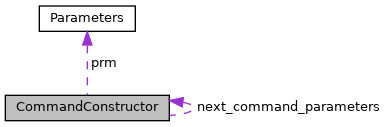
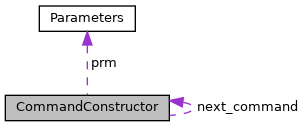
Deploying to gh-pages from @ dstroy0/InputHandler@6d2c29513930a54c01538d0f2f14abbc8ddefe4d 🚀

diff --git a/html/df/dec/_input_handler_8h_source.html b/html/df/dec/_input_handler_8h_source.html
@@ -164,7 +164,7 @@ $(document).ready(function(){initNavTree('df/dec/_input_handler_8h_source.html',
 <div class="line"><a id="l00111" name="l00111"></a><span class="lineno"><a class="line" href="../../d0/dbf/struct_parameters.html#a3397bfe84120d79b047bd5c83d2d5c53">  111</a></span>    <a class="code hl_enumeration" href="../../de/d8a/group___user_input.html#gaaf7aee82204b26b1dc80fcefa29ea8b9">UI_ARG_HANDLING</a> <a class="code hl_variable" href="../../d0/dbf/struct_parameters.html#a3397bfe84120d79b047bd5c83d2d5c53">argument_flag</a>; </div>
 <div class="line"><a id="l00112" name="l00112"></a><span class="lineno"><a class="line" href="../../d0/dbf/struct_parameters.html#a157e4e306872390657e1f7be5100c559">  112</a></span>    uint8_t <a class="code hl_variable" href="../../d0/dbf/struct_parameters.html#a157e4e306872390657e1f7be5100c559">num_args</a>;              </div>
 <div class="line"><a id="l00113" name="l00113"></a><span class="lineno"><a class="line" href="../../d0/dbf/struct_parameters.html#af2cc56591385d1eb4df0d93e9b1c7cb4">  113</a></span>    uint8_t <a class="code hl_variable" href="../../d0/dbf/struct_parameters.html#af2cc56591385d1eb4df0d93e9b1c7cb4">max_num_args</a>;          </div>
-<div class="line"><a id="l00114" name="l00114"></a><span class="lineno"><a class="line" href="../../d0/dbf/struct_parameters.html#a3170e977bf87d7fea93601067ed6d413">  114</a></span>    <a class="code hl_enumeration" href="../../de/d8a/group___user_input.html#ga70e7c464dbd2c5c26fa63684d9dfdd70">UITYPE</a> <a class="code hl_variable" href="../../d0/dbf/struct_parameters.html#a3170e977bf87d7fea93601067ed6d413">_arg_type</a>[<a class="code hl_define" href="../../dd/d4e/_input_handler__config_8h.html#a72f41b83365fd2261e5ddfacd27bb8a5">UI_MAX_ARGS</a>]; </div>
+<div class="line"><a id="l00114" name="l00114"></a><span class="lineno"><a class="line" href="../../d0/dbf/struct_parameters.html#a26ff294eb7d0d02ea1c224d10e3d44e2">  114</a></span>    <a class="code hl_enumeration" href="../../de/d8a/group___user_input.html#ga70e7c464dbd2c5c26fa63684d9dfdd70">UITYPE</a> <a class="code hl_variable" href="../../d0/dbf/struct_parameters.html#a26ff294eb7d0d02ea1c224d10e3d44e2">arg_type_arr</a>[<a class="code hl_define" href="../../dd/d4e/_input_handler__config_8h.html#a72f41b83365fd2261e5ddfacd27bb8a5">UI_MAX_ARGS</a>]; </div>
 <div class="line"><a id="l00115" name="l00115"></a><span class="lineno">  115</span>};</div>
 <div class="line"><a id="l00121" name="l00121"></a><span class="lineno"><a class="line" href="../../df/d68/class_command_constructor.html">  121</a></span><span class="keyword">class </span><a class="code hl_class" href="../../df/d68/class_command_constructor.html">CommandConstructor</a></div>
 <div class="line"><a id="l00122" name="l00122"></a><span class="lineno">  122</span>{</div>
@@ -175,13 +175,13 @@ $(document).ready(function(){initNavTree('df/dec/_input_handler_8h_source.html',
 <div class="line"><a id="l00140" name="l00140"></a><span class="lineno">  140</span>        : <a class="code hl_variable" href="../../df/d68/class_command_constructor.html#a36f5e0ca68674b1a7a6b28d0ac4df69a">prm</a>(parameters),</div>
 <div class="line"><a id="l00141" name="l00141"></a><span class="lineno">  141</span>          <a class="code hl_variable" href="../../df/d68/class_command_constructor.html#af3f46284fca20b49c41b1fad04977e7f">param_array_len</a>(parameter_array_elements),</div>
 <div class="line"><a id="l00142" name="l00142"></a><span class="lineno">  142</span>          <a class="code hl_variable" href="../../df/d68/class_command_constructor.html#a4723c2fc92a88cbe655c2d78fdc1ad79">tree_depth</a>(<a class="code hl_variable" href="../../df/d68/class_command_constructor.html#a4723c2fc92a88cbe655c2d78fdc1ad79">tree_depth</a>),</div>
-<div class="line"><a id="l00143" name="l00143"></a><span class="lineno">  143</span>          <a class="code hl_variable" href="../../df/d68/class_command_constructor.html#a317a2d10dedc039ae33d3c26c3a4e104">next_command_parameters</a>(NULL)</div>
+<div class="line"><a id="l00143" name="l00143"></a><span class="lineno">  143</span>          <a class="code hl_variable" href="../../df/d68/class_command_constructor.html#acf385c16d839794f2bbe7ad7d1db4de3">next_command</a>(NULL)</div>
 <div class="line"><a id="l00144" name="l00144"></a><span class="lineno">  144</span>    {</div>
 <div class="line"><a id="l00145" name="l00145"></a><span class="lineno">  145</span>    }</div>
 <div class="line"><a id="l00146" name="l00146"></a><span class="lineno"><a class="line" href="../../df/d68/class_command_constructor.html#a36f5e0ca68674b1a7a6b28d0ac4df69a">  146</a></span>    <span class="keyword">const</span> <a class="code hl_struct" href="../../d0/dbf/struct_parameters.html">Parameters</a> *<a class="code hl_variable" href="../../df/d68/class_command_constructor.html#a36f5e0ca68674b1a7a6b28d0ac4df69a">prm</a>;</div>
 <div class="line"><a id="l00147" name="l00147"></a><span class="lineno"><a class="line" href="../../df/d68/class_command_constructor.html#a4723c2fc92a88cbe655c2d78fdc1ad79">  147</a></span>    <span class="keyword">const</span> uint8_t <a class="code hl_variable" href="../../df/d68/class_command_constructor.html#a4723c2fc92a88cbe655c2d78fdc1ad79">tree_depth</a>;</div>
 <div class="line"><a id="l00148" name="l00148"></a><span class="lineno"><a class="line" href="../../df/d68/class_command_constructor.html#af3f46284fca20b49c41b1fad04977e7f">  148</a></span>    <span class="keyword">const</span> uint8_t <a class="code hl_variable" href="../../df/d68/class_command_constructor.html#af3f46284fca20b49c41b1fad04977e7f">param_array_len</a>;</div>
-<div class="line"><a id="l00149" name="l00149"></a><span class="lineno"><a class="line" href="../../df/d68/class_command_constructor.html#a317a2d10dedc039ae33d3c26c3a4e104">  149</a></span>    <a class="code hl_class" href="../../df/d68/class_command_constructor.html">CommandConstructor</a> *<a class="code hl_variable" href="../../df/d68/class_command_constructor.html#a317a2d10dedc039ae33d3c26c3a4e104">next_command_parameters</a>; </div>
+<div class="line"><a id="l00149" name="l00149"></a><span class="lineno"><a class="line" href="../../df/d68/class_command_constructor.html#acf385c16d839794f2bbe7ad7d1db4de3">  149</a></span>    <a class="code hl_class" href="../../df/d68/class_command_constructor.html">CommandConstructor</a> *<a class="code hl_variable" href="../../df/d68/class_command_constructor.html#acf385c16d839794f2bbe7ad7d1db4de3">next_command</a>; </div>
 <div class="line"><a id="l00150" name="l00150"></a><span class="lineno">  150</span>};</div>
 <div class="line"><a id="l00151" name="l00151"></a><span class="lineno">  151</span> </div>
 <div class="line"><a id="l00155" name="l00155"></a><span class="lineno"><a class="line" href="../../dc/d4b/class_user_input.html">  155</a></span><span class="keyword">class </span><a class="code hl_class" href="../../dc/d4b/class_user_input.html">UserInput</a></div>
@@ -346,9 +346,9 @@ $(document).ready(function(){initNavTree('df/dec/_input_handler_8h_source.html',
 <div class="ttc" id="aarduino_2advanced_2_multi_file_2_c_l_i_2parameters_8h_html_ab5cff1c93016bad1a024d62bc0c60784"><div class="ttname"><a href="../../d3/d4e/arduino_2advanced_2_multi_file_2_c_l_i_2parameters_8h.html#ab5cff1c93016bad1a024d62bc0c60784">PROGMEM</a></div><div class="ttdeci">const Parameters help_param[1] PROGMEM</div><div class="ttdoc">UserInput::Parameters struct for uc_help_.</div><div class="ttdef"><b>Definition:</b> parameters.h:20</div></div>
 <div class="ttc" id="aclass_command_constructor_html"><div class="ttname"><a href="../../df/d68/class_command_constructor.html">CommandConstructor</a></div><div class="ttdoc">user command constructor class</div><div class="ttdef"><b>Definition:</b> InputHandler.h:122</div></div>
 <div class="ttc" id="aclass_command_constructor_html_a25e808c319d8240889311fbcb81e5b33"><div class="ttname"><a href="../../df/d68/class_command_constructor.html#a25e808c319d8240889311fbcb81e5b33">CommandConstructor::CommandConstructor</a></div><div class="ttdeci">CommandConstructor(const Parameters *parameters, const uint8_t parameter_array_elements=1, const uint8_t tree_depth=0)</div><div class="ttdoc">CommandConstructor Constructor.</div><div class="ttdef"><b>Definition:</b> InputHandler.h:137</div></div>
-<div class="ttc" id="aclass_command_constructor_html_a317a2d10dedc039ae33d3c26c3a4e104"><div class="ttname"><a href="../../df/d68/class_command_constructor.html#a317a2d10dedc039ae33d3c26c3a4e104">CommandConstructor::next_command_parameters</a></div><div class="ttdeci">CommandConstructor * next_command_parameters</div><div class="ttdef"><b>Definition:</b> InputHandler.h:149</div></div>
 <div class="ttc" id="aclass_command_constructor_html_a36f5e0ca68674b1a7a6b28d0ac4df69a"><div class="ttname"><a href="../../df/d68/class_command_constructor.html#a36f5e0ca68674b1a7a6b28d0ac4df69a">CommandConstructor::prm</a></div><div class="ttdeci">const Parameters * prm</div><div class="ttdef"><b>Definition:</b> InputHandler.h:146</div></div>
 <div class="ttc" id="aclass_command_constructor_html_a4723c2fc92a88cbe655c2d78fdc1ad79"><div class="ttname"><a href="../../df/d68/class_command_constructor.html#a4723c2fc92a88cbe655c2d78fdc1ad79">CommandConstructor::tree_depth</a></div><div class="ttdeci">const uint8_t tree_depth</div><div class="ttdef"><b>Definition:</b> InputHandler.h:147</div></div>
+<div class="ttc" id="aclass_command_constructor_html_acf385c16d839794f2bbe7ad7d1db4de3"><div class="ttname"><a href="../../df/d68/class_command_constructor.html#acf385c16d839794f2bbe7ad7d1db4de3">CommandConstructor::next_command</a></div><div class="ttdeci">CommandConstructor * next_command</div><div class="ttdef"><b>Definition:</b> InputHandler.h:149</div></div>
 <div class="ttc" id="aclass_command_constructor_html_af3f46284fca20b49c41b1fad04977e7f"><div class="ttname"><a href="../../df/d68/class_command_constructor.html#af3f46284fca20b49c41b1fad04977e7f">CommandConstructor::param_array_len</a></div><div class="ttdeci">const uint8_t param_array_len</div><div class="ttdef"><b>Definition:</b> InputHandler.h:148</div></div>
 <div class="ttc" id="aclass_user_input_html"><div class="ttname"><a href="../../dc/d4b/class_user_input.html">UserInput</a></div><div class="ttdoc">User input handler methods.</div><div class="ttdef"><b>Definition:</b> InputHandler.h:156</div></div>
 <div class="ttc" id="aclass_user_input_html_a1f1dfef01fd160e4ba9686a4c59e0369"><div class="ttname"><a href="../../dc/d4b/class_user_input.html#a1f1dfef01fd160e4ba9686a4c59e0369">UserInput::begin</a></div><div class="ttdeci">bool begin()</div><div class="ttdoc">allocates memory for data_pointers, sets begin</div><div class="ttdef"><b>Definition:</b> InputHandler.cpp:118</div></div>
@@ -388,7 +388,7 @@ $(document).ready(function(){initNavTree('df/dec/_input_handler_8h_source.html',
 <div class="ttc" id="astruct_parameters_html"><div class="ttname"><a href="../../d0/dbf/struct_parameters.html">Parameters</a></div><div class="ttdoc">Parameters struct, this is the container that holds your command parameters.</div><div class="ttdef"><b>Definition:</b> InputHandler.h:105</div></div>
 <div class="ttc" id="astruct_parameters_html_a010c4c82c6956cb129b423ef20b8f279"><div class="ttname"><a href="../../d0/dbf/struct_parameters.html#a010c4c82c6956cb129b423ef20b8f279">Parameters::depth</a></div><div class="ttdeci">uint8_t depth</div><div class="ttdoc">command tree depth</div><div class="ttdef"><b>Definition:</b> InputHandler.h:109</div></div>
 <div class="ttc" id="astruct_parameters_html_a157e4e306872390657e1f7be5100c559"><div class="ttname"><a href="../../d0/dbf/struct_parameters.html#a157e4e306872390657e1f7be5100c559">Parameters::num_args</a></div><div class="ttdeci">uint8_t num_args</div><div class="ttdoc">minimum number of arguments this command expects</div><div class="ttdef"><b>Definition:</b> InputHandler.h:112</div></div>
-<div class="ttc" id="astruct_parameters_html_a3170e977bf87d7fea93601067ed6d413"><div class="ttname"><a href="../../d0/dbf/struct_parameters.html#a3170e977bf87d7fea93601067ed6d413">Parameters::_arg_type</a></div><div class="ttdeci">UITYPE _arg_type[UI_MAX_ARGS]</div><div class="ttdoc">argument type array</div><div class="ttdef"><b>Definition:</b> InputHandler.h:114</div></div>
+<div class="ttc" id="astruct_parameters_html_a26ff294eb7d0d02ea1c224d10e3d44e2"><div class="ttname"><a href="../../d0/dbf/struct_parameters.html#a26ff294eb7d0d02ea1c224d10e3d44e2">Parameters::arg_type_arr</a></div><div class="ttdeci">UITYPE arg_type_arr[UI_MAX_ARGS]</div><div class="ttdoc">argument type array</div><div class="ttdef"><b>Definition:</b> InputHandler.h:114</div></div>
 <div class="ttc" id="astruct_parameters_html_a3397bfe84120d79b047bd5c83d2d5c53"><div class="ttname"><a href="../../d0/dbf/struct_parameters.html#a3397bfe84120d79b047bd5c83d2d5c53">Parameters::argument_flag</a></div><div class="ttdeci">UI_ARG_HANDLING argument_flag</div><div class="ttdoc">argument handling flag</div><div class="ttdef"><b>Definition:</b> InputHandler.h:111</div></div>
 <div class="ttc" id="astruct_parameters_html_a50cf8f9bc0161410c3a486a54e99108e"><div class="ttname"><a href="../../d0/dbf/struct_parameters.html#a50cf8f9bc0161410c3a486a54e99108e">Parameters::sub_commands</a></div><div class="ttdeci">uint8_t sub_commands</div><div class="ttdoc">how many subcommands does this command have</div><div class="ttdef"><b>Definition:</b> InputHandler.h:110</div></div>
 <div class="ttc" id="astruct_parameters_html_aa5cdae10169c1ffea5ca38b74043220b"><div class="ttname"><a href="../../d0/dbf/struct_parameters.html#aa5cdae10169c1ffea5ca38b74043220b">Parameters::command_length</a></div><div class="ttdeci">uint16_t command_length</div><div class="ttdoc">command length in characters</div><div class="ttdef"><b>Definition:</b> InputHandler.h:108</div></div>

diff --git a/html/d0/dbf/struct_parameters.html b/html/d0/dbf/struct_parameters.html
@@ -123,22 +123,22 @@ Public Attributes</h2></td></tr>
 <tr class="memitem:af2cc56591385d1eb4df0d93e9b1c7cb4"><td class="memItemLeft" align="right" valign="top">uint8_t&#160;</td><td class="memItemRight" valign="bottom"><a class="el" href="../../d0/dbf/struct_parameters.html#af2cc56591385d1eb4df0d93e9b1c7cb4">max_num_args</a></td></tr>
 <tr class="memdesc:af2cc56591385d1eb4df0d93e9b1c7cb4"><td class="mdescLeft">&#160;</td><td class="mdescRight">maximum number of arguments this command expects  <a href="../../d0/dbf/struct_parameters.html#af2cc56591385d1eb4df0d93e9b1c7cb4">More...</a><br /></td></tr>
 <tr class="separator:af2cc56591385d1eb4df0d93e9b1c7cb4"><td class="memSeparator" colspan="2">&#160;</td></tr>
-<tr class="memitem:a3170e977bf87d7fea93601067ed6d413"><td class="memItemLeft" align="right" valign="top"><a class="el" href="../../de/d8a/group___user_input.html#ga70e7c464dbd2c5c26fa63684d9dfdd70">UITYPE</a>&#160;</td><td class="memItemRight" valign="bottom"><a class="el" href="../../d0/dbf/struct_parameters.html#a3170e977bf87d7fea93601067ed6d413">_arg_type</a> [<a class="el" href="../../dd/d4e/_input_handler__config_8h.html#a72f41b83365fd2261e5ddfacd27bb8a5">UI_MAX_ARGS</a>]</td></tr>
-<tr class="memdesc:a3170e977bf87d7fea93601067ed6d413"><td class="mdescLeft">&#160;</td><td class="mdescRight">argument type array  <a href="../../d0/dbf/struct_parameters.html#a3170e977bf87d7fea93601067ed6d413">More...</a><br /></td></tr>
-<tr class="separator:a3170e977bf87d7fea93601067ed6d413"><td class="memSeparator" colspan="2">&#160;</td></tr>
+<tr class="memitem:a26ff294eb7d0d02ea1c224d10e3d44e2"><td class="memItemLeft" align="right" valign="top"><a class="el" href="../../de/d8a/group___user_input.html#ga70e7c464dbd2c5c26fa63684d9dfdd70">UITYPE</a>&#160;</td><td class="memItemRight" valign="bottom"><a class="el" href="../../d0/dbf/struct_parameters.html#a26ff294eb7d0d02ea1c224d10e3d44e2">arg_type_arr</a> [<a class="el" href="../../dd/d4e/_input_handler__config_8h.html#a72f41b83365fd2261e5ddfacd27bb8a5">UI_MAX_ARGS</a>]</td></tr>
+<tr class="memdesc:a26ff294eb7d0d02ea1c224d10e3d44e2"><td class="mdescLeft">&#160;</td><td class="mdescRight">argument type array  <a href="../../d0/dbf/struct_parameters.html#a26ff294eb7d0d02ea1c224d10e3d44e2">More...</a><br /></td></tr>
+<tr class="separator:a26ff294eb7d0d02ea1c224d10e3d44e2"><td class="memSeparator" colspan="2">&#160;</td></tr>
 </table>
 <a name="details" id="details"></a><h2 class="groupheader">Detailed Description</h2>
 <div class="textblock"><p ><a class="el" href="../../d0/dbf/struct_parameters.html" title="Parameters struct, this is the container that holds your command parameters.">Parameters</a> struct, this is the container that holds your command parameters. </p>
 <p >User Command <a class="el" href="../../d0/dbf/struct_parameters.html" title="Parameters struct, this is the container that holds your command parameters.">Parameters</a> struct </p>
 </div><h2 class="groupheader">Member Data Documentation</h2>
-<a id="a3170e977bf87d7fea93601067ed6d413" name="a3170e977bf87d7fea93601067ed6d413"></a>
-<h2 class="memtitle"><span class="permalink"><a href="#a3170e977bf87d7fea93601067ed6d413">&#9670;&nbsp;</a></span>_arg_type</h2>
+<a id="a26ff294eb7d0d02ea1c224d10e3d44e2" name="a26ff294eb7d0d02ea1c224d10e3d44e2"></a>
+<h2 class="memtitle"><span class="permalink"><a href="#a26ff294eb7d0d02ea1c224d10e3d44e2">&#9670;&nbsp;</a></span>arg_type_arr</h2>
 
 <div class="memitem">
 <div class="memproto">
       <table class="memname">
         <tr>
-          <td class="memname"><a class="el" href="../../de/d8a/group___user_input.html#ga70e7c464dbd2c5c26fa63684d9dfdd70">UITYPE</a> Parameters::_arg_type[<a class="el" href="../../dd/d4e/_input_handler__config_8h.html#a72f41b83365fd2261e5ddfacd27bb8a5">UI_MAX_ARGS</a>]</td>
+          <td class="memname"><a class="el" href="../../de/d8a/group___user_input.html#ga70e7c464dbd2c5c26fa63684d9dfdd70">UITYPE</a> Parameters::arg_type_arr[<a class="el" href="../../dd/d4e/_input_handler__config_8h.html#a72f41b83365fd2261e5ddfacd27bb8a5">UI_MAX_ARGS</a>]</td>
         </tr>
       </table>
 </div><div class="memdoc">

diff --git a/html/df/d68/class_command_constructor.html b/html/df/d68/class_command_constructor.html
@@ -121,8 +121,8 @@ Public Attributes</h2></td></tr>
 <tr class="separator:a4723c2fc92a88cbe655c2d78fdc1ad79"><td class="memSeparator" colspan="2">&#160;</td></tr>
 <tr class="memitem:af3f46284fca20b49c41b1fad04977e7f"><td class="memItemLeft" align="right" valign="top">const uint8_t&#160;</td><td class="memItemRight" valign="bottom"><a class="el" href="../../df/d68/class_command_constructor.html#af3f46284fca20b49c41b1fad04977e7f">param_array_len</a></td></tr>
 <tr class="separator:af3f46284fca20b49c41b1fad04977e7f"><td class="memSeparator" colspan="2">&#160;</td></tr>
-<tr class="memitem:a317a2d10dedc039ae33d3c26c3a4e104"><td class="memItemLeft" align="right" valign="top"><a class="el" href="../../df/d68/class_command_constructor.html">CommandConstructor</a> *&#160;</td><td class="memItemRight" valign="bottom"><a class="el" href="../../df/d68/class_command_constructor.html#a317a2d10dedc039ae33d3c26c3a4e104">next_command_parameters</a></td></tr>
-<tr class="separator:a317a2d10dedc039ae33d3c26c3a4e104"><td class="memSeparator" colspan="2">&#160;</td></tr>
+<tr class="memitem:acf385c16d839794f2bbe7ad7d1db4de3"><td class="memItemLeft" align="right" valign="top"><a class="el" href="../../df/d68/class_command_constructor.html">CommandConstructor</a> *&#160;</td><td class="memItemRight" valign="bottom"><a class="el" href="../../df/d68/class_command_constructor.html#acf385c16d839794f2bbe7ad7d1db4de3">next_command</a></td></tr>
+<tr class="separator:acf385c16d839794f2bbe7ad7d1db4de3"><td class="memSeparator" colspan="2">&#160;</td></tr>
 </table>
 <a name="details" id="details"></a><h2 class="groupheader">Detailed Description</h2>
 <div class="textblock"><p >user command constructor class </p>
@@ -169,7 +169,7 @@ Public Attributes</h2></td></tr>
 
 <p><a class="el" href="../../df/d68/class_command_constructor.html" title="user command constructor class">CommandConstructor</a> Constructor. </p>
 <p ><a href="https://www.programiz.com/dsa/linked-list">https://www.programiz.com/dsa/linked-list</a></p>
-<p >These are chained together as a linked-list; this object contains a reference <code>next_command_parameters</code> to the next node in the <a class="el" href="../../df/d68/class_command_constructor.html" title="user command constructor class">CommandConstructor</a> linked-list.</p>
+<p >These are chained together as a linked-list; this object contains a reference <code>next_command</code> to the next node in the <a class="el" href="../../df/d68/class_command_constructor.html" title="user command constructor class">CommandConstructor</a> linked-list.</p>
 <p >Before using, construct a <a class="el" href="../../dc/d4b/class_user_input.html" title="User input handler methods.">UserInput</a> object and a <a class="el" href="../../d0/dbf/struct_parameters.html" title="Parameters struct, this is the container that holds your command parameters.">Parameters</a> object. </p><dl class="params"><dt>Parameters</dt><dd>
   <table class="params">
     <tr><td class="paramname">parameters</td><td>pointer to parameters struct or array of parameters structs </td></tr>
@@ -182,14 +182,14 @@ Public Attributes</h2></td></tr>
 </div>
 </div>
 <h2 class="groupheader">Member Data Documentation</h2>
-<a id="a317a2d10dedc039ae33d3c26c3a4e104" name="a317a2d10dedc039ae33d3c26c3a4e104"></a>
-<h2 class="memtitle"><span class="permalink"><a href="#a317a2d10dedc039ae33d3c26c3a4e104">&#9670;&nbsp;</a></span>next_command_parameters</h2>
+<a id="acf385c16d839794f2bbe7ad7d1db4de3" name="acf385c16d839794f2bbe7ad7d1db4de3"></a>
+<h2 class="memtitle"><span class="permalink"><a href="#acf385c16d839794f2bbe7ad7d1db4de3">&#9670;&nbsp;</a></span>next_command</h2>
 
 <div class="memitem">
 <div class="memproto">
       <table class="memname">
         <tr>
-          <td class="memname"><a class="el" href="../../df/d68/class_command_constructor.html">CommandConstructor</a>* CommandConstructor::next_command_parameters</td>
+          <td class="memname"><a class="el" href="../../df/d68/class_command_constructor.html">CommandConstructor</a>* CommandConstructor::next_command</td>
         </tr>
       </table>
 </div><div class="memdoc">

diff --git a/html/search/all_0.js b/html/search/all_0.js
@@ -1,14 +1,13 @@
 var searchData=
 [
   ['_5f_5fvalist_0',['__VALIST',['../dd/ddc/vsnprintf_8h.html#a3335625716061d1943df22e780d2a055',1,'vsnprintf.h']]],
-  ['_5farg_5ftype_1',['_arg_type',['../d0/dbf/struct_parameters.html#a3170e977bf87d7fea93601067ed6d413',1,'Parameters']]],
-  ['_5fgenerate_2',['_generate',['../dd/db2/structdetail_1_1__generate.html',1,'detail']]],
-  ['_5fgenerate_3c_20t_2c_200_20_3e_3',['_generate&lt; T, 0 &gt;',['../d5/d4b/structdetail_1_1__generate_3_01_t_00_010_01_4.html',1,'detail']]],
-  ['_5fgenerate_3c_20t_2c_201_20_3e_4',['_generate&lt; T, 1 &gt;',['../d6/de6/structdetail_1_1__generate_3_01_t_00_011_01_4.html',1,'detail']]],
-  ['_5fgenerate_5ft_5',['_generate_t',['../dd/d39/namespacedetail.html#a7b8b2dabbdc5bfe0ab98241848a44185',1,'detail']]],
-  ['_5flast_6',['_LAST',['../de/d8a/group___user_input.html#gga70e7c464dbd2c5c26fa63684d9dfdd70aaa55687588914f1c2a506982d7f57948',1,'InputHandler.h']]],
-  ['_5fmerge_7',['_merge',['../d1/df1/structdetail_1_1__merge.html',1,'detail']]],
-  ['_5fmerge_3c_20integer_5fsequence_3c_20t_2c_20i1_2e_2e_2e_20_3e_2c_20integer_5fsequence_3c_20t_2c_20i2_2e_2e_2e_20_3e_20_3e_8',['_merge&lt; integer_sequence&lt; T, I1... &gt;, integer_sequence&lt; T, I2... &gt; &gt;',['../d2/d14/structdetail_1_1__merge_3_01integer__sequence_3_01_t_00_01_i1_8_8_8_01_4_00_01integer__sequence_3_01_t_00_01_i2_8_8_8_01_4_01_4.html',1,'detail']]],
-  ['_5fmerge_5ft_9',['_merge_t',['../dd/d39/namespacedetail.html#a90c3c123fd3feb59de78303f0b2585d9',1,'detail']]],
-  ['_5fn_5fprms_10',['_N_prms',['../dd/d4e/_input_handler__config_8h.html#acedaeea0ea767f43653abdf77453de79',1,'InputHandler_config.h']]]
+  ['_5fgenerate_1',['_generate',['../dd/db2/structdetail_1_1__generate.html',1,'detail']]],
+  ['_5fgenerate_3c_20t_2c_200_20_3e_2',['_generate&lt; T, 0 &gt;',['../d5/d4b/structdetail_1_1__generate_3_01_t_00_010_01_4.html',1,'detail']]],
+  ['_5fgenerate_3c_20t_2c_201_20_3e_3',['_generate&lt; T, 1 &gt;',['../d6/de6/structdetail_1_1__generate_3_01_t_00_011_01_4.html',1,'detail']]],
+  ['_5fgenerate_5ft_4',['_generate_t',['../dd/d39/namespacedetail.html#a7b8b2dabbdc5bfe0ab98241848a44185',1,'detail']]],
+  ['_5flast_5',['_LAST',['../de/d8a/group___user_input.html#gga70e7c464dbd2c5c26fa63684d9dfdd70aaa55687588914f1c2a506982d7f57948',1,'InputHandler.h']]],
+  ['_5fmerge_6',['_merge',['../d1/df1/structdetail_1_1__merge.html',1,'detail']]],
+  ['_5fmerge_3c_20integer_5fsequence_3c_20t_2c_20i1_2e_2e_2e_20_3e_2c_20integer_5fsequence_3c_20t_2c_20i2_2e_2e_2e_20_3e_20_3e_7',['_merge&lt; integer_sequence&lt; T, I1... &gt;, integer_sequence&lt; T, I2... &gt; &gt;',['../d2/d14/structdetail_1_1__merge_3_01integer__sequence_3_01_t_00_01_i1_8_8_8_01_4_00_01integer__sequence_3_01_t_00_01_i2_8_8_8_01_4_01_4.html',1,'detail']]],
+  ['_5fmerge_5ft_8',['_merge_t',['../dd/d39/namespacedetail.html#a90c3c123fd3feb59de78303f0b2585d9',1,'detail']]],
+  ['_5fn_5fprms_9',['_N_prms',['../dd/d4e/_input_handler__config_8h.html#acedaeea0ea767f43653abdf77453de79',1,'InputHandler_config.h']]]
 ];

diff --git a/html/df/d97/class_command_constructor-members.html b/html/df/d97/class_command_constructor-members.html
@@ -92,7 +92,7 @@ $(document).ready(function(){initNavTree('df/d68/class_command_constructor.html'
 <p>This is the complete list of members for <a class="el" href="../../df/d68/class_command_constructor.html">CommandConstructor</a>, including all inherited members.</p>
 <table class="directory">
   <tr class="even"><td class="entry"><a class="el" href="../../df/d68/class_command_constructor.html#a25e808c319d8240889311fbcb81e5b33">CommandConstructor</a>(const Parameters *parameters, const uint8_t parameter_array_elements=1, const uint8_t tree_depth=0)</td><td class="entry"><a class="el" href="../../df/d68/class_command_constructor.html">CommandConstructor</a></td><td class="entry"><span class="mlabel">inline</span></td></tr>
-  <tr class="odd"><td class="entry"><a class="el" href="../../df/d68/class_command_constructor.html#a317a2d10dedc039ae33d3c26c3a4e104">next_command_parameters</a></td><td class="entry"><a class="el" href="../../df/d68/class_command_constructor.html">CommandConstructor</a></td><td class="entry"></td></tr>
+  <tr class="odd"><td class="entry"><a class="el" href="../../df/d68/class_command_constructor.html#acf385c16d839794f2bbe7ad7d1db4de3">next_command</a></td><td class="entry"><a class="el" href="../../df/d68/class_command_constructor.html">CommandConstructor</a></td><td class="entry"></td></tr>
   <tr class="even"><td class="entry"><a class="el" href="../../df/d68/class_command_constructor.html#af3f46284fca20b49c41b1fad04977e7f">param_array_len</a></td><td class="entry"><a class="el" href="../../df/d68/class_command_constructor.html">CommandConstructor</a></td><td class="entry"></td></tr>
   <tr class="odd"><td class="entry"><a class="el" href="../../df/d68/class_command_constructor.html#a36f5e0ca68674b1a7a6b28d0ac4df69a">prm</a></td><td class="entry"><a class="el" href="../../df/d68/class_command_constructor.html">CommandConstructor</a></td><td class="entry"></td></tr>
   <tr class="even"><td class="entry"><a class="el" href="../../df/d68/class_command_constructor.html#a4723c2fc92a88cbe655c2d78fdc1ad79">tree_depth</a></td><td class="entry"><a class="el" href="../../df/d68/class_command_constructor.html">CommandConstructor</a></td><td class="entry"></td></tr>

diff --git a/html/functions_vars.html b/html/functions_vars.html
@@ -86,14 +86,14 @@ $(document).ready(function(){initNavTree('functions_vars.html',''); initResizabl
 
 <div class="contents">
 &#160;<ul>
-<li>_arg_type&#160;:&#160;<a class="el" href="d0/dbf/struct_parameters.html#a3170e977bf87d7fea93601067ed6d413">Parameters</a></li>
+<li>arg_type_arr&#160;:&#160;<a class="el" href="d0/dbf/struct_parameters.html#a26ff294eb7d0d02ea1c224d10e3d44e2">Parameters</a></li>
 <li>argument_flag&#160;:&#160;<a class="el" href="d0/dbf/struct_parameters.html#a3397bfe84120d79b047bd5c83d2d5c53">Parameters</a></li>
 <li>command&#160;:&#160;<a class="el" href="d0/dbf/struct_parameters.html#ad7bcf9456a39e6b541ab2e3039391acf">Parameters</a></li>
 <li>command_length&#160;:&#160;<a class="el" href="d0/dbf/struct_parameters.html#aa5cdae10169c1ffea5ca38b74043220b">Parameters</a></li>
 <li>depth&#160;:&#160;<a class="el" href="d0/dbf/struct_parameters.html#a010c4c82c6956cb129b423ef20b8f279">Parameters</a></li>
 <li>function&#160;:&#160;<a class="el" href="d0/dbf/struct_parameters.html#abb290cdb27d954c02656940d91bab100">Parameters</a></li>
 <li>max_num_args&#160;:&#160;<a class="el" href="d0/dbf/struct_parameters.html#af2cc56591385d1eb4df0d93e9b1c7cb4">Parameters</a></li>
-<li>next_command_parameters&#160;:&#160;<a class="el" href="df/d68/class_command_constructor.html#a317a2d10dedc039ae33d3c26c3a4e104">CommandConstructor</a></li>
+<li>next_command&#160;:&#160;<a class="el" href="df/d68/class_command_constructor.html#acf385c16d839794f2bbe7ad7d1db4de3">CommandConstructor</a></li>
 <li>num_args&#160;:&#160;<a class="el" href="d0/dbf/struct_parameters.html#a157e4e306872390657e1f7be5100c559">Parameters</a></li>
 <li>param_array_len&#160;:&#160;<a class="el" href="df/d68/class_command_constructor.html#af3f46284fca20b49c41b1fad04977e7f">CommandConstructor</a></li>
 <li>prm&#160;:&#160;<a class="el" href="df/d68/class_command_constructor.html#a36f5e0ca68674b1a7a6b28d0ac4df69a">CommandConstructor</a></li>

diff --git a/html/functions.html b/html/functions.html
@@ -87,13 +87,9 @@ $(document).ready(function(){initNavTree('functions.html',''); initResizable(); 
 <div class="contents">
 <div class="textblock">Here is a list of all class members with links to the classes they belong to:</div>
 
-<h3><a id="index__5F" name="index__5F"></a>- _ -</h3><ul>
-<li>_arg_type&#160;:&#160;<a class="el" href="d0/dbf/struct_parameters.html#a3170e977bf87d7fea93601067ed6d413">Parameters</a></li>
-</ul>
-
-
 <h3><a id="index_a" name="index_a"></a>- a -</h3><ul>
 <li>addCommand()&#160;:&#160;<a class="el" href="dc/d4b/class_user_input.html#aa6067a65dc10a5c4546ce789a3edd4d1">UserInput</a></li>
+<li>arg_type_arr&#160;:&#160;<a class="el" href="d0/dbf/struct_parameters.html#a26ff294eb7d0d02ea1c224d10e3d44e2">Parameters</a></li>
 <li>argument_flag&#160;:&#160;<a class="el" href="d0/dbf/struct_parameters.html#a3397bfe84120d79b047bd5c83d2d5c53">Parameters</a></li>
 </ul>
 
@@ -142,7 +138,7 @@ $(document).ready(function(){initNavTree('functions.html',''); initResizable(); 
 
 
 <h3><a id="index_n" name="index_n"></a>- n -</h3><ul>
-<li>next_command_parameters&#160;:&#160;<a class="el" href="df/d68/class_command_constructor.html#a317a2d10dedc039ae33d3c26c3a4e104">CommandConstructor</a></li>
+<li>next_command&#160;:&#160;<a class="el" href="df/d68/class_command_constructor.html#acf385c16d839794f2bbe7ad7d1db4de3">CommandConstructor</a></li>
 <li>nextArgument()&#160;:&#160;<a class="el" href="dc/d4b/class_user_input.html#a30cd1758e5ab22d987e8c37e426989dd">UserInput</a></li>
 <li>num_args&#160;:&#160;<a class="el" href="d0/dbf/struct_parameters.html#a157e4e306872390657e1f7be5100c559">Parameters</a></li>
 </ul>

diff --git a/html/d8/d76/struct_parameters-members.html b/html/d8/d76/struct_parameters-members.html
@@ -91,7 +91,7 @@ $(document).ready(function(){initNavTree('d0/dbf/struct_parameters.html','../../
 
 <p>This is the complete list of members for <a class="el" href="../../d0/dbf/struct_parameters.html">Parameters</a>, including all inherited members.</p>
 <table class="directory">
-  <tr class="even"><td class="entry"><a class="el" href="../../d0/dbf/struct_parameters.html#a3170e977bf87d7fea93601067ed6d413">_arg_type</a></td><td class="entry"><a class="el" href="../../d0/dbf/struct_parameters.html">Parameters</a></td><td class="entry"></td></tr>
+  <tr class="even"><td class="entry"><a class="el" href="../../d0/dbf/struct_parameters.html#a26ff294eb7d0d02ea1c224d10e3d44e2">arg_type_arr</a></td><td class="entry"><a class="el" href="../../d0/dbf/struct_parameters.html">Parameters</a></td><td class="entry"></td></tr>
   <tr class="odd"><td class="entry"><a class="el" href="../../d0/dbf/struct_parameters.html#a3397bfe84120d79b047bd5c83d2d5c53">argument_flag</a></td><td class="entry"><a class="el" href="../../d0/dbf/struct_parameters.html">Parameters</a></td><td class="entry"></td></tr>
   <tr class="even"><td class="entry"><a class="el" href="../../d0/dbf/struct_parameters.html#ad7bcf9456a39e6b541ab2e3039391acf">command</a></td><td class="entry"><a class="el" href="../../d0/dbf/struct_parameters.html">Parameters</a></td><td class="entry"></td></tr>
   <tr class="odd"><td class="entry"><a class="el" href="../../d0/dbf/struct_parameters.html#aa5cdae10169c1ffea5ca38b74043220b">command_length</a></td><td class="entry"><a class="el" href="../../d0/dbf/struct_parameters.html">Parameters</a></td><td class="entry"></td></tr>

diff --git a/html/navtreeindex0.js b/html/navtreeindex0.js
@@ -5,7 +5,7 @@ var NAVTREEINDEX0 =
 "d0/dbf/struct_parameters.html":[0,0,0],
 "d0/dbf/struct_parameters.html#a010c4c82c6956cb129b423ef20b8f279":[0,0,0,4],
 "d0/dbf/struct_parameters.html#a157e4e306872390657e1f7be5100c559":[0,0,0,7],
-"d0/dbf/struct_parameters.html#a3170e977bf87d7fea93601067ed6d413":[0,0,0,0],
+"d0/dbf/struct_parameters.html#a26ff294eb7d0d02ea1c224d10e3d44e2":[0,0,0,0],
 "d0/dbf/struct_parameters.html#a3397bfe84120d79b047bd5c83d2d5c53":[0,0,0,1],
 "d0/dbf/struct_parameters.html#a50cf8f9bc0161410c3a486a54e99108e":[0,0,0,8],
 "d0/dbf/struct_parameters.html#aa5cdae10169c1ffea5ca38b74043220b":[0,0,0,3],
@@ -120,9 +120,9 @@ var NAVTREEINDEX0 =
 "de/d8a/group___user_input.html#ggaaf7aee82204b26b1dc80fcefa29ea8b9afd1b59a959f982928e0b4e79bb42dd67":[0,0,1,1],
 "df/d68/class_command_constructor.html":[2,0,1],
 "df/d68/class_command_constructor.html#a25e808c319d8240889311fbcb81e5b33":[2,0,1,0],
-"df/d68/class_command_constructor.html#a317a2d10dedc039ae33d3c26c3a4e104":[2,0,1,1],
 "df/d68/class_command_constructor.html#a36f5e0ca68674b1a7a6b28d0ac4df69a":[2,0,1,3],
 "df/d68/class_command_constructor.html#a4723c2fc92a88cbe655c2d78fdc1ad79":[2,0,1,4],
+"df/d68/class_command_constructor.html#acf385c16d839794f2bbe7ad7d1db4de3":[2,0,1,1],
 "df/d68/class_command_constructor.html#af3f46284fca20b49c41b1fad04977e7f":[2,0,1,2],
 "df/dec/_input_handler_8h.html":[3,0,1,3],
 "df/dec/_input_handler_8h_source.html":[3,0,1,3],

diff --git a/html/search/variables_7.js b/html/search/variables_7.js
@@ -1,4 +1,6 @@
 var searchData=
 [
-  ['output_5fbuffer_0',['output_buffer',['../d5/dac/arduino_2advanced_2_multi_file_2_c_l_i_2cli__setup_8h.html#ad520b29e3db0d23c00126db0d0c64e30',1,'output_buffer():&#160;cli_setup.h'],['../d8/d7c/esp_2advanced_2_multi_file_2_c_l_i_2cli__setup_8h.html#ad520b29e3db0d23c00126db0d0c64e30',1,'output_buffer():&#160;cli_setup.h']]]
+  ['param_5farray_5flen_0',['param_array_len',['../df/d68/class_command_constructor.html#af3f46284fca20b49c41b1fad04977e7f',1,'CommandConstructor']]],
+  ['prm_1',['prm',['../df/d68/class_command_constructor.html#a36f5e0ca68674b1a7a6b28d0ac4df69a',1,'CommandConstructor']]],
+  ['progmem_2',['PROGMEM',['../d3/d4e/arduino_2advanced_2_multi_file_2_c_l_i_2parameters_8h.html#ab5cff1c93016bad1a024d62bc0c60784',1,'PROGMEM():&#160;parameters.h'],['../dc/d46/esp_2advanced_2_multi_file_2_c_l_i_2parameters_8h.html#ab5cff1c93016bad1a024d62bc0c60784',1,'PROGMEM():&#160;parameters.h']]]
 ];

diff --git a/html/search/all_a.js b/html/search/all_a.js
@@ -1,6 +1,6 @@
 var searchData=
 [
-  ['next_5fcommand_5fparameters_0',['next_command_parameters',['../df/d68/class_command_constructor.html#a317a2d10dedc039ae33d3c26c3a4e104',1,'CommandConstructor']]],
+  ['next_5fcommand_0',['next_command',['../df/d68/class_command_constructor.html#acf385c16d839794f2bbe7ad7d1db4de3',1,'CommandConstructor']]],
   ['nextargument_1',['nextArgument',['../dc/d4b/class_user_input.html#a30cd1758e5ab22d987e8c37e426989dd',1,'UserInput']]],
   ['no_5fargs_2',['no_args',['../de/d8a/group___user_input.html#ggaaf7aee82204b26b1dc80fcefa29ea8b9a517c5dac9a168ab48e4727ca5ada9741',1,'InputHandler.h']]],
   ['no_5fargs_3',['NO_ARGS',['../de/d8a/group___user_input.html#gga70e7c464dbd2c5c26fa63684d9dfdd70acd158bf723602ecc6429b5771682a716',1,'InputHandler.h']]],

diff --git a/html/search/variables_8.js b/html/search/variables_8.js
@@ -1,6 +1,4 @@
 var searchData=
 [
-  ['param_5farray_5flen_0',['param_array_len',['../df/d68/class_command_constructor.html#af3f46284fca20b49c41b1fad04977e7f',1,'CommandConstructor']]],
-  ['prm_1',['prm',['../df/d68/class_command_constructor.html#a36f5e0ca68674b1a7a6b28d0ac4df69a',1,'CommandConstructor']]],
-  ['progmem_2',['PROGMEM',['../d3/d4e/arduino_2advanced_2_multi_file_2_c_l_i_2parameters_8h.html#ab5cff1c93016bad1a024d62bc0c60784',1,'PROGMEM():&#160;parameters.h'],['../dc/d46/esp_2advanced_2_multi_file_2_c_l_i_2parameters_8h.html#ab5cff1c93016bad1a024d62bc0c60784',1,'PROGMEM():&#160;parameters.h']]]
+  ['sub_5fcommands_0',['sub_commands',['../d0/dbf/struct_parameters.html#a50cf8f9bc0161410c3a486a54e99108e',1,'Parameters']]]
 ];
